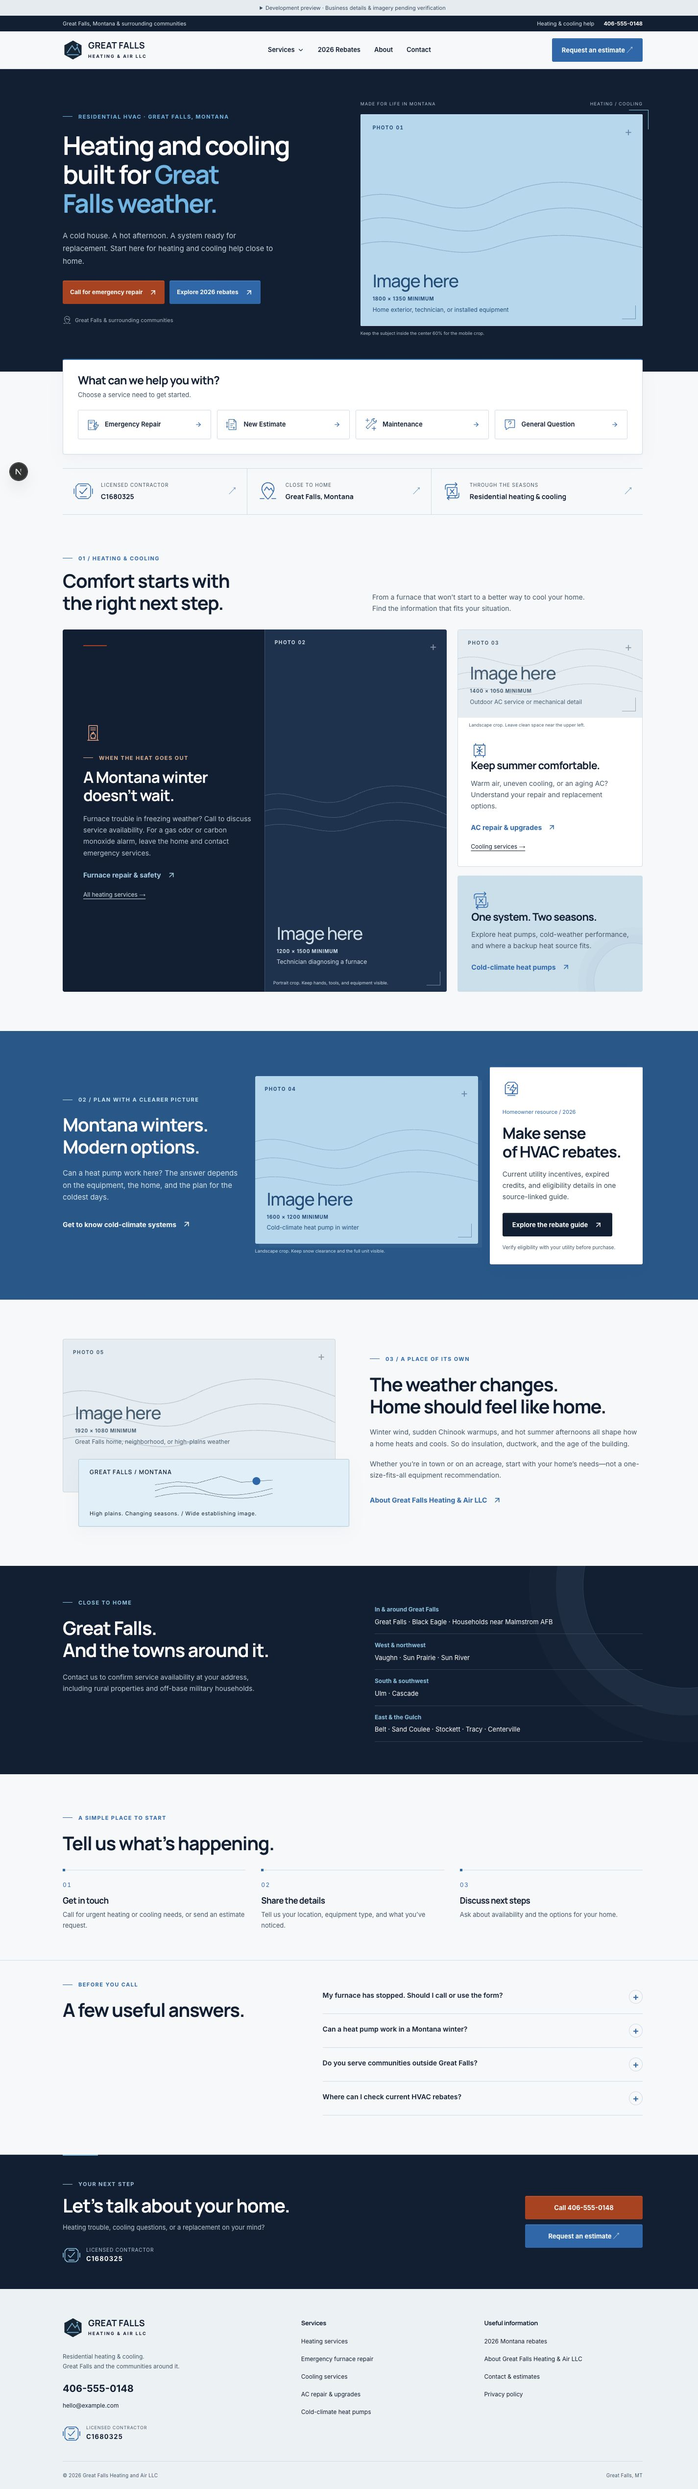
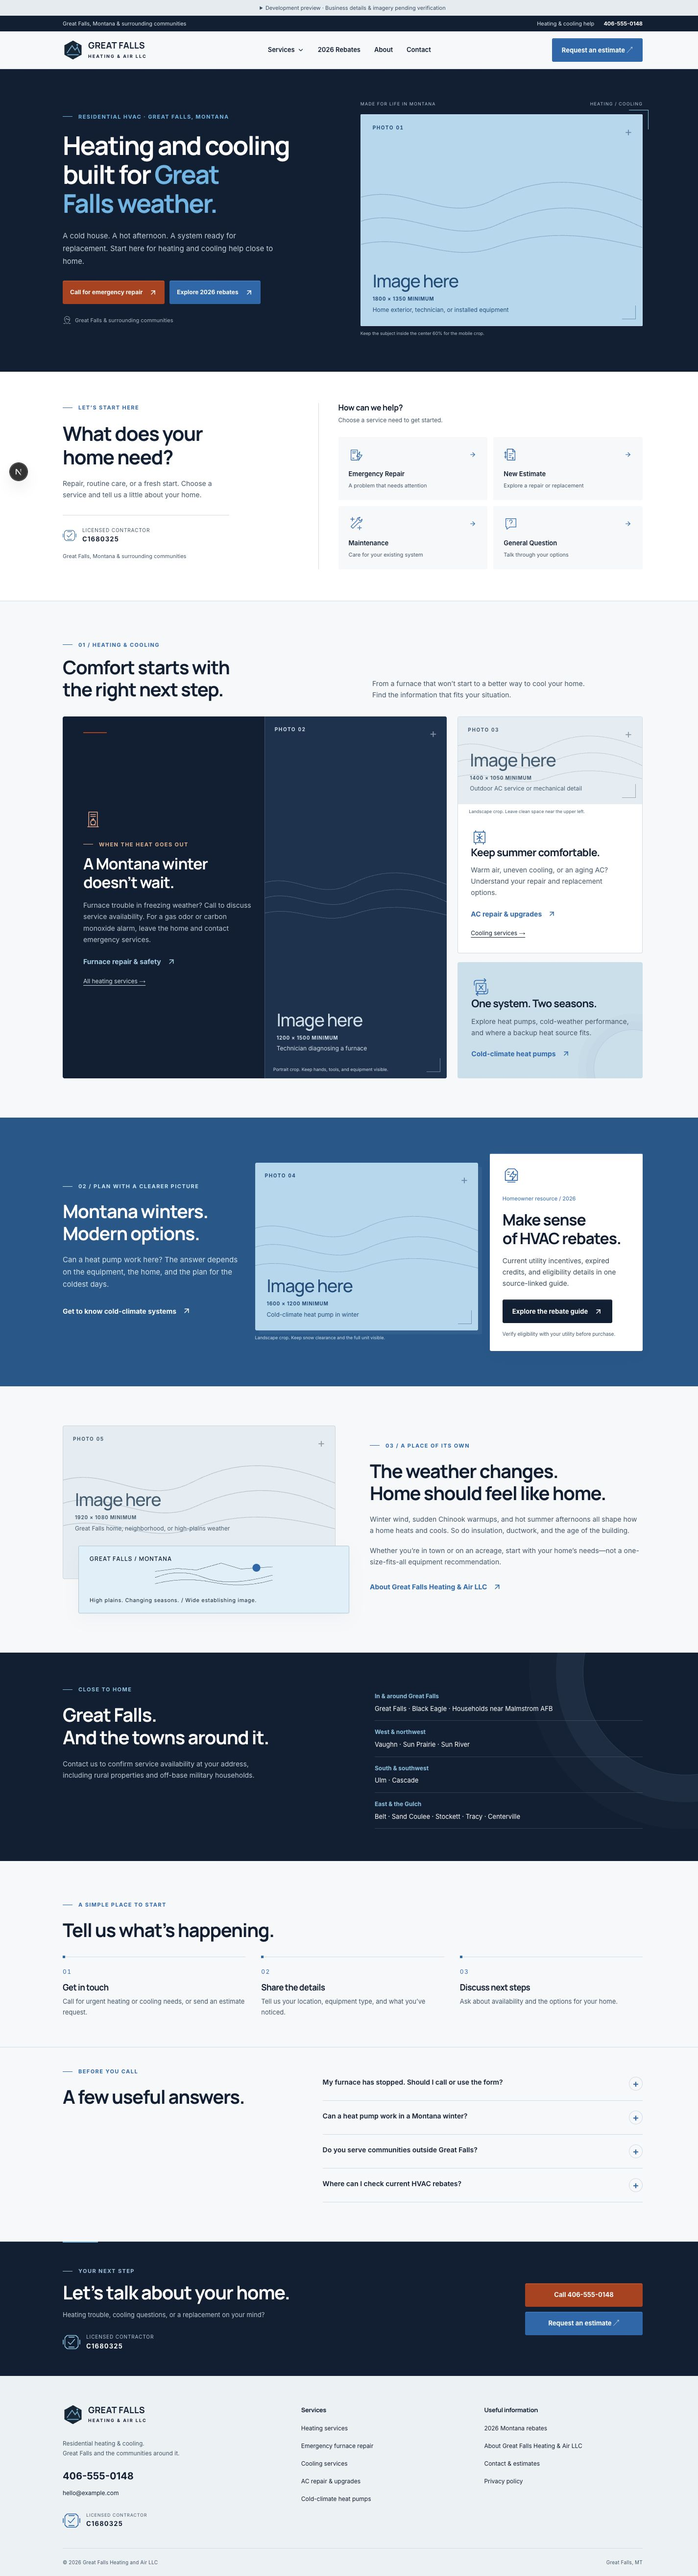
Unify homepage service selection and credentials

diff --git a/src/app/premium.css b/src/app/premium.css
@@ -697,6 +697,152 @@
     left: 20px;
   }
 }
+.service-concierge {
+  background: #fff;
+  border-bottom: 1px solid var(--line);
+  padding: 64px 0;
+  scroll-margin-top: 90px;
+}
+.concierge-grid {
+  display: grid;
+  grid-template-columns: 0.8fr 1.2fr;
+  gap: 80px;
+  align-items: start;
+}
+.concierge-intro h2 {
+  font-size: clamp(1.8rem, 2.8vw, 2.6rem);
+  margin-bottom: 18px;
+}
+.concierge-intro > p:not(.eyebrow) {
+  font-size: 14px;
+  max-width: 340px;
+}
+.concierge-credentials {
+  margin-top: 30px;
+  padding-top: 22px;
+  border-top: 1px solid var(--line);
+  max-width: 340px;
+}
+.concierge-credentials > span {
+  display: block;
+  font-size: 11px;
+  color: var(--muted);
+  margin-top: 14px;
+}
+.concierge-credentials .license-mark > svg {
+  width: 28px;
+  height: 28px;
+}
+.concierge-form {
+  padding-left: 40px;
+  border-left: 1px solid var(--line);
+}
+.concierge-form h2 {
+  font-size: 16px;
+  letter-spacing: -0.02em;
+  margin-bottom: 6px;
+}
+.concierge-form .form-intro {
+  font-size: 12px;
+  margin-bottom: 24px;
+}
+.concierge-form .intent-options {
+  grid-template-columns: 1fr 1fr;
+  gap: 12px;
+}
+.concierge-form .intent-option {
+  min-height: 128px;
+  padding: 20px;
+  display: grid;
+  grid-template-columns: 1fr auto;
+  gap: 14px 8px;
+  align-content: start;
+  background: var(--paper);
+  border-color: transparent;
+}
+.concierge-form .intent-option > .service-icon {
+  width: 30px;
+  height: 30px;
+  grid-column: 1;
+}
+.concierge-form .intent-option > span {
+  grid-column: 1 / -1;
+  grid-row: 2;
+  margin: 0;
+  font-size: 13px;
+}
+.concierge-form .intent-option > svg:last-child {
+  display: block;
+  grid-column: 2;
+  grid-row: 1;
+  align-self: center;
+}
+.intent-description {
+  display: block;
+  font-size: 11px;
+  line-height: 1.5;
+  color: var(--muted);
+  font-weight: 400;
+  margin-top: 5px;
+}
+.concierge-form .intent-option[aria-pressed="true"] {
+  background: #e4f1f7;
+  border-color: var(--blue);
+}
+.concierge-form .form-reveal {
+  border-top: 1px solid var(--line);
+  padding-top: 24px;
+}
+@media (hover: hover) and (pointer: fine) {
+  .concierge-form .intent-option:hover {
+    background: #edf4f8;
+    border-color: #b7ccd8;
+  }
+}
+@media (max-width: 1100px) {
+  .concierge-grid {
+    gap: 36px;
+    grid-template-columns: 0.75fr 1.25fr;
+  }
+  .concierge-form {
+    padding-left: 28px;
+  }
+  .concierge-form .intent-option {
+    padding: 16px;
+  }
+}
+@media (max-width: 767px) {
+  .service-concierge {
+    padding: 38px 0;
+  }
+  .concierge-grid {
+    grid-template-columns: 1fr;
+    gap: 28px;
+  }
+  .concierge-intro h2 br {
+    display: none;
+  }
+  .concierge-intro > p:not(.eyebrow) {
+    max-width: 480px;
+  }
+  .concierge-credentials {
+    margin-top: 22px;
+    padding-top: 18px;
+    max-width: none;
+  }
+  .concierge-form {
+    padding: 26px 0 0;
+    border-left: 0;
+    border-top: 1px solid var(--line);
+  }
+  .concierge-form .intent-option {
+    min-height: 144px;
+    padding: 16px 12px;
+  }
+  .concierge-form .intent-option > span {
+    font-size: 12px;
+  }
+}
 @media (prefers-reduced-motion: reduce) {
   *,
   *::before,

diff --git a/src/app/page.tsx b/src/app/page.tsx
@@ -1,7 +1,7 @@
 import Link from "next/link";
 import { ArrowUpRight } from "lucide-react";
 import { ServiceIcon } from "@/components/ui/ServiceIcon";
-import { TrustMarks } from "@/components/ui/TrustMarks";
+import { LicenseMark } from "@/components/ui/TrustMarks";
 import { buildMetadata } from "@/lib/seo/metadata";
 import { siteConfig } from "@/content/site";
 import { PhotoPlaceholder } from "@/components/ui/PhotoPlaceholder";
@@ -65,12 +65,35 @@ export default function HomePage() {
           </div>
         </div>
       </section>
-      <section className="intent-section wrap" id="estimate">
-        <LeadForm progressive headline="What can we help you with?" />
+      <section
+        className="service-concierge"
+        id="estimate"
+        aria-labelledby="service-concierge-title"
+      >
+        <div className="wrap concierge-grid">
+          <div className="concierge-intro">
+            <p className="eyebrow">Let’s start here</p>
+            <h2 id="service-concierge-title">
+              What does your
+              <br />
+              home need?
+            </h2>
+            <p>
+              Repair, routine care, or a fresh start. Choose a service and tell
+              us a little about your home.
+            </p>
+            <div className="concierge-credentials">
+              <LicenseMark />
+              <span>Great Falls, Montana & surrounding communities</span>
+            </div>
+          </div>
+          <LeadForm
+            progressive
+            headline="How can we help?"
+            className="concierge-form"
+          />
+        </div>
       </section>
-      <div className="wrap">
-        <TrustMarks />
-      </div>
       <section className="section wrap">
         <div className="section-intro">
           <p className="eyebrow">01 / Heating & cooling</p>

diff --git a/src/components/forms/LeadForm.tsx b/src/components/forms/LeadForm.tsx
@@ -17,6 +17,12 @@ const intents = [
   { value: "maintenance", label: "Maintenance", icon: "maintenance" },
   { value: "general", label: "General Question", icon: "general" },
 ] as const;
+const intentDescriptions = {
+  emergency: "A problem that needs attention",
+  estimate: "Explore a repair or replacement",
+  maintenance: "Care for your existing system",
+  general: "Talk through your options",
+};
 export function LeadForm({
   initialIntent = "estimate",
   sourceRoute = "/",
@@ -138,7 +144,14 @@ export function LeadForm({
             }}
           >
             <ServiceIcon name={icon} size={28} />
-            <span>{label}</span>
+            <span>
+              {label}
+              {progressive && (
+                <small className="intent-description">
+                  {intentDescriptions[value]}
+                </small>
+              )}
+            </span>
             <ArrowRight size={14} aria-hidden="true" />
           </button>
         ))}

diff --git a/README.md b/README.md
@@ -8,6 +8,8 @@ Technical confidence with quiet luxury: Manrope headings, Inter body text, cool-
 
 ### Premium design system
 
+The homepage service selector is an integrated white section beneath the hero: introduction and compact credentials beside a two-by-two service grid. Each choice explains its purpose and expands the existing accessible form. Mobile stacks the introduction above the grid. The About page retains the wider business-information marks.
+
 - `src/components/ui/ServiceIcon.tsx`: eleven original inline SVG equipment and service drawings on a consistent 32-unit grid. Decorative icons are hidden from assistive technology; adjacent text carries meaning.
 - `src/components/ui/TrustMarks.tsx`: linked license, location, and residential-service marks; compact license treatment for contact, calls to action, and footer. Uses the owner-confirmed C1680325 value centrally; no additional certifications or claims.
 - `src/app/premium.css`: shared finish layered after the existing layout rules. Motifs are airflow contours, technical registration corners, and thin section markers. Motion uses shared timing tokens, with pointer effects restricted to hover-capable devices.
